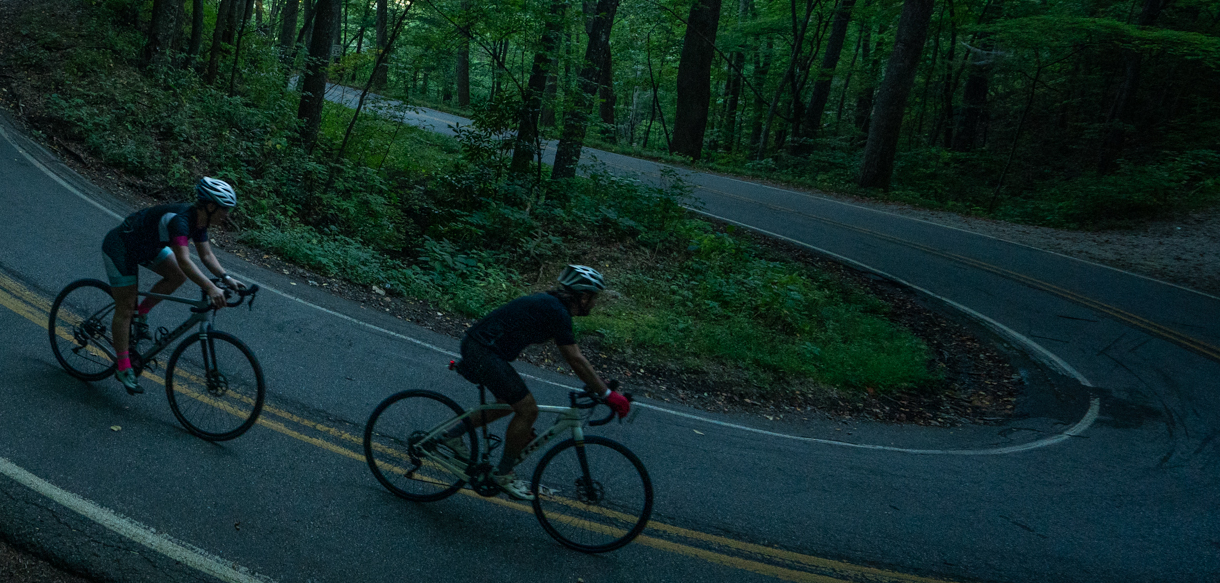
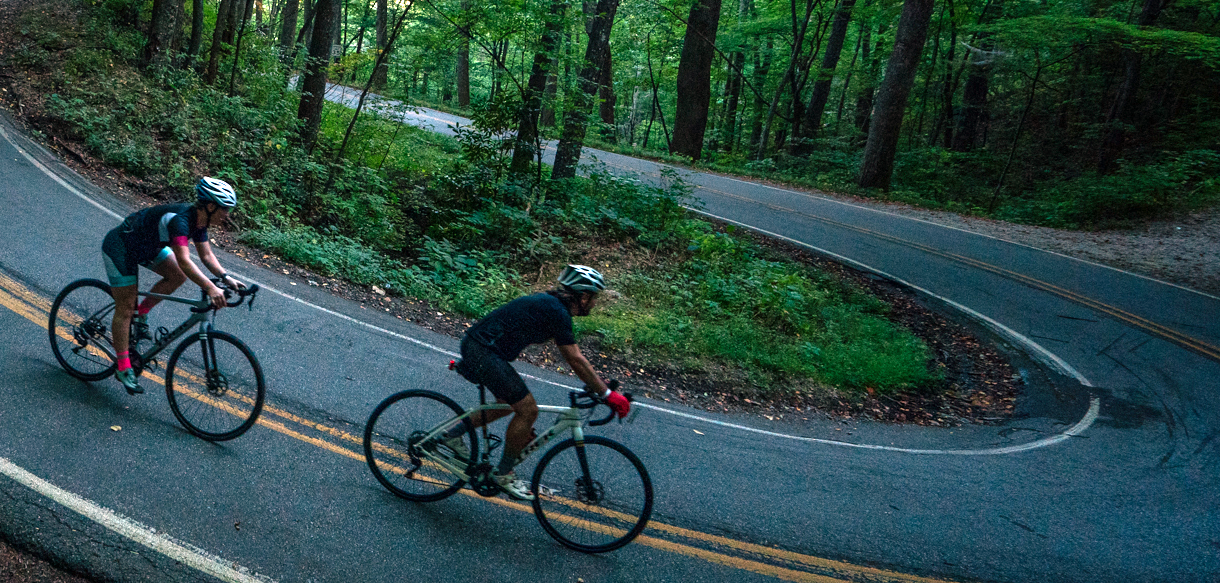
Change homepage hero image to WebP

diff --git a/tailwind.config.ts b/tailwind.config.ts
@@ -10,8 +10,8 @@ export default {
   theme: {
     extend: {
       backgroundImage: {
-        'hero-large': "url('/images/hero.png')",
-        'hero-small': "url('/images/hero-small.png')",
+        'hero-large': "url('/images/hero-large.webp')",
+        'hero-small': "url('/images/hero-small.webp')",
       },
       colors: {
         background: 'hsl(var(--background))',
